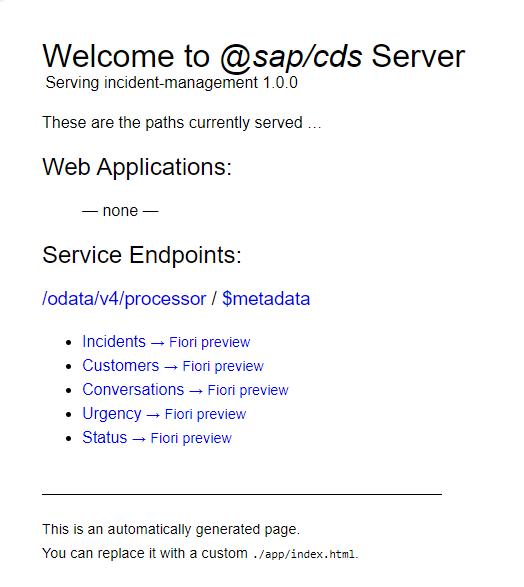
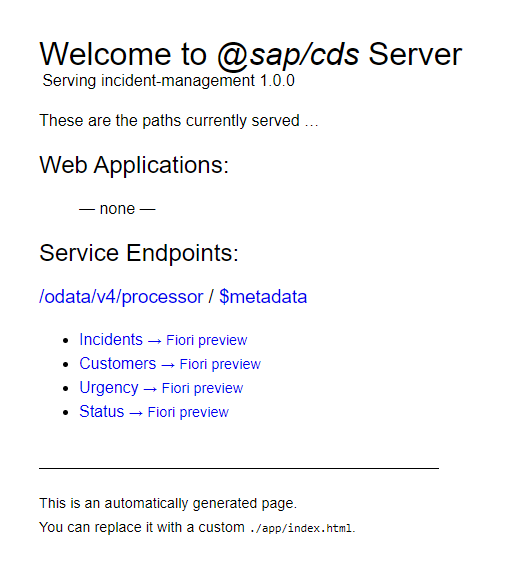
update build cap app

diff --git a/tutorials/build-cap-app/build-cap-app.md b/tutorials/build-cap-app/build-cap-app.md
@@ -94,7 +94,12 @@ You have the SAP Business Application Studio configured. See [Set Up SAP Busines
       title        : String  @title : 'Title';
       urgency      : Association to Urgency;
       status       : Association to Status; 
-      conversations: Composition of many Conversations on conversations.incidents = $self;
+      conversation  : Composition of many {
+        key ID    : UUID;
+        timestamp : type of managed:createdAt;
+        author    : type of managed:createdBy;
+        message   : String;
+        };
     }
 
     /**
@@ -106,13 +111,6 @@ You have the SAP Business Application Studio configured. See [Set Up SAP Busines
       email         : EMailAddress;
       phone         : PhoneNumber;
       incidents     : Association to many Incidents on incidents.customer = $self;
-    }
-
-    entity Conversations : cuid, managed {
-      incidents : Association to Incidents;
-      timestamp : DateTime;
-      author    : String @cds.on.insert: $user;
-      message   : String;
     }
 
     entity Status : CodeList {
@@ -163,7 +161,7 @@ Waiting for some to arrive...
 
 It's a good practice in CAP to create single-purpose services. Hence, let's define a `ProcessorService` for support engineers to process incidents created by customers.
 
-To create the service definitions:
+To create the service definition:
 
 1. In the **srv** folder, create a new **processor-service.cds** file.
 
@@ -211,15 +209,18 @@ Since we already have an SQLite in-memory database that was automatically create
     Adding feature 'data'...
     Creating db/data/sap.capire.incidents-Incidents.csv
     Creating db/data/sap.capire.incidents-Customers.csv
-    Creating db/data/sap.capire.incidents-Conversations.csv
     Creating db/data/sap.capire.incidents-Status.csv
     Creating db/data/sap.capire.incidents-Urgency.csv
+    Creating db/data/sap.capire.incidents-Incidents.conversation.csv
     Creating db/data/sap.capire.incidents-Status.texts.csv
     Creating db/data/sap.capire.incidents-Urgency.texts.csv
 
     Successfully added features to your project.
     ```
 
+
+    You can find the generated CSV templates within the **db** folder, in a newly-created **data** folder.
+     
 ### Fill in the test data
 
 Replace the respective generated CSV templates with the following content:
@@ -243,10 +244,10 @@ Replace the respective generated CSV templates with the following content:
     3583f982-d7df-4aad-ab26-301d4a157cd7,2b87f6ca-28a2-41d6-8c69-ccf16aa6389d,Solar panel broken,H,I
     ```
 
-- `db/data/sap.capire.incidents-Conversations.csv`:
+- `db/data/sap.capire.incidents-Incidents.conversation.csv`:
 
     ```csv
-    ID,incidents_ID,timestamp,author,message
+    ID,up__ID,timestamp,author,message
     2b23bb4b-4ac7-4a24-ac02-aa10cabd842c,3b23bb4b-4ac7-4a24-ac02-aa10cabd842c,1995-12-17T03:24:00Z,Harry John,Can you please check if battery connections are fine?
     2b23bb4b-4ac7-4a24-ac02-aa10cabd843c,3a4ede72-244a-4f5f-8efa-b17e032d01ee,1995-12-18T04:24:00Z,Emily Elizabeth,Can you please check if there are any loose connections?
     9583f982-d7df-4aad-ab26-301d4a157cd7,3583f982-d7df-4aad-ab26-301d4a157cd7,2022-09-04T12:00:00Z,Sunny Sunshine,Please check why the solar panel is broken.
@@ -280,7 +281,7 @@ Upon detecting these new files, the CAP server prints a message stating that the
 
 ```bash
 [cds] - connect to db > sqlite { database: ':memory:' }
-  > init from db\data\sap.capire.incidents-Conversations.csv 
+  > init from db\data\sap.capire.incidents-Incidents.conversation.csv 
   > init from db\data\sap.capire.incidents-Customers.csv 
   > init from db\data\sap.capire.incidents-Incidents.csv 
   > init from db\data\sap.capire.incidents-Status.csv 
@@ -289,7 +290,6 @@ Upon detecting these new files, the CAP server prints a message stating that the
   > init from db\data\sap.capire.incidents-Urgency.texts.csv 
 /> successfully deployed to in-memory database.
 ```
-
 > Make sure your CAP server is still running. You can start it with `cds watch`.
 
 Now that the database is filled with some initial data, you can send complex OData queries served by the built-in generic service providers. With the generic `index.html` page opened in your browser, paste the following queries at the end of the current URL and check the result:
@@ -328,7 +328,10 @@ Elements can be specified with a calculation expression, in which you can refer 
       firstName || ' ' || lastName as name: String
     }
     ```
-
 3. Click the `Customers` endpoint from the `index.html` page and you'll see the new field `name` for each entry. The value for this field for each of the entries is calculated by taking into account the values of the fields `firstName` and `lastName`.
 
+
     <!-- border; size:540px --> ![Calculated element name](./calculated-element-name.png)
+
+    
+
